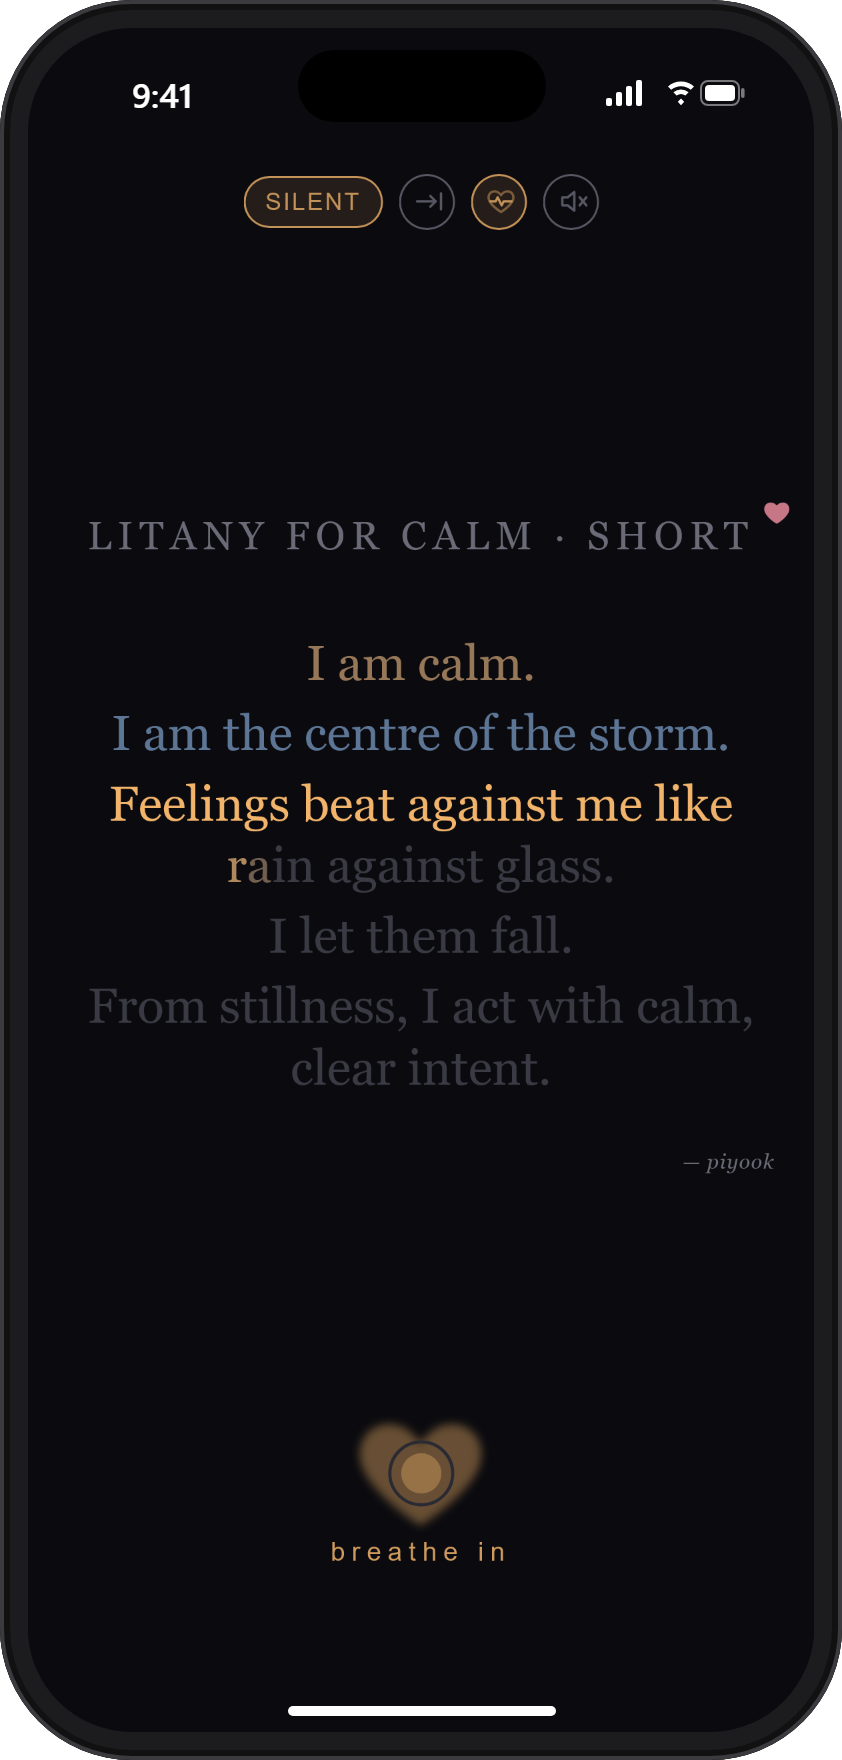
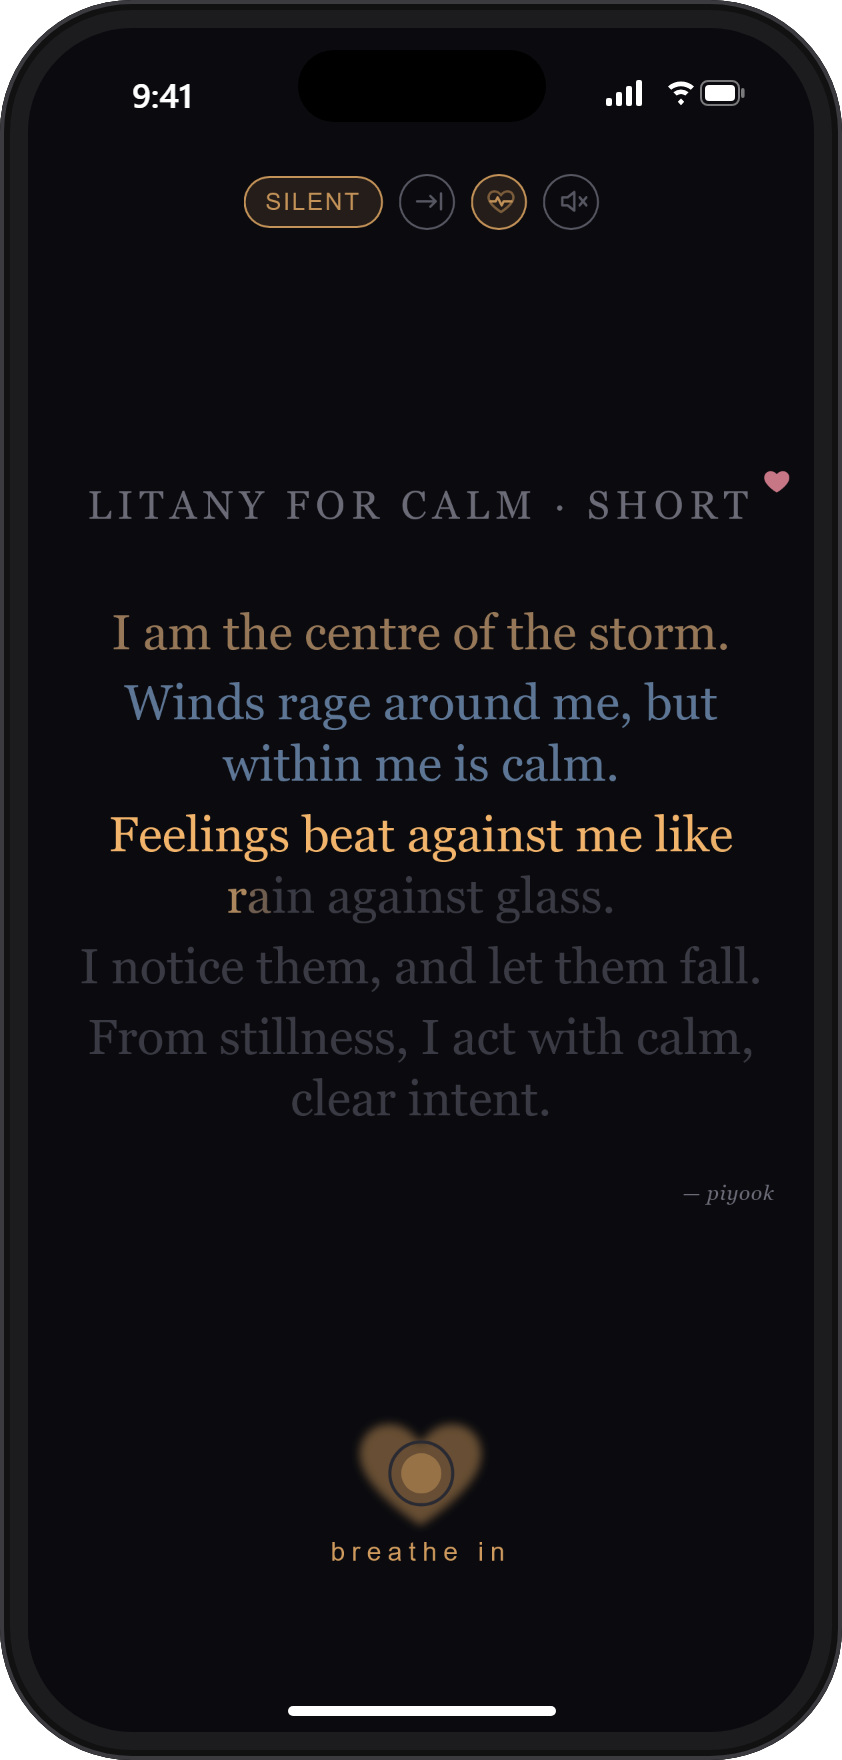
docs(readme): retake all four screenshots for the reworded litanies

diff --git a/README.md b/README.md
@@ -34,7 +34,7 @@ These help me. I hope they help someone else.
 ## Install as an app
 
 <p align="center">
-  <img src="docs/phone-short-line.png" width="260" alt="Installed on an iPhone, the short form one line at a time: 'I am the centre of the storm.' fills in blue on the out-breath, with five dots under the title for the five lines, and a soft blue heartbeat behind the breath ring">
+  <img src="docs/phone-short-line.png" width="260" alt="Installed on an iPhone, the short form one line at a time: 'Winds rage around me, but within me is calm.' fills in blue on the out-breath, with five dots under the title for the five lines, and a soft blue heartbeat behind the breath ring">
   &nbsp;&nbsp;
   <img src="docs/phone-short-whole.png" width="260" alt="Installed on an iPhone, the whole short form on one screen: the first two lines keep their breath colour and the third fills in amber on the in-breath, with a soft amber heartbeat behind the breath ring">
 </p>
